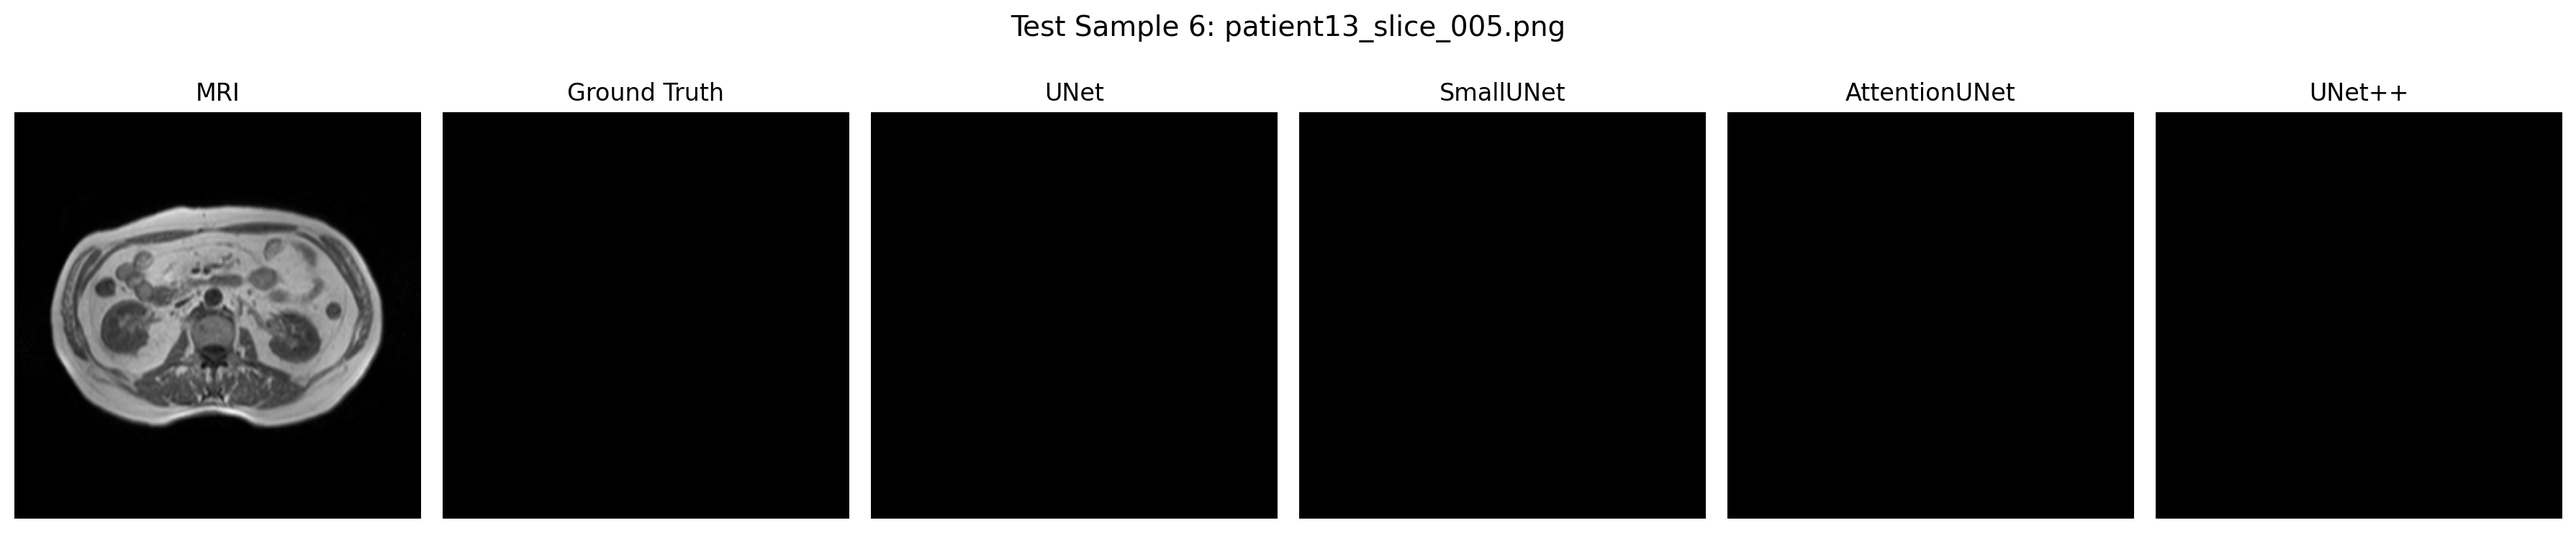
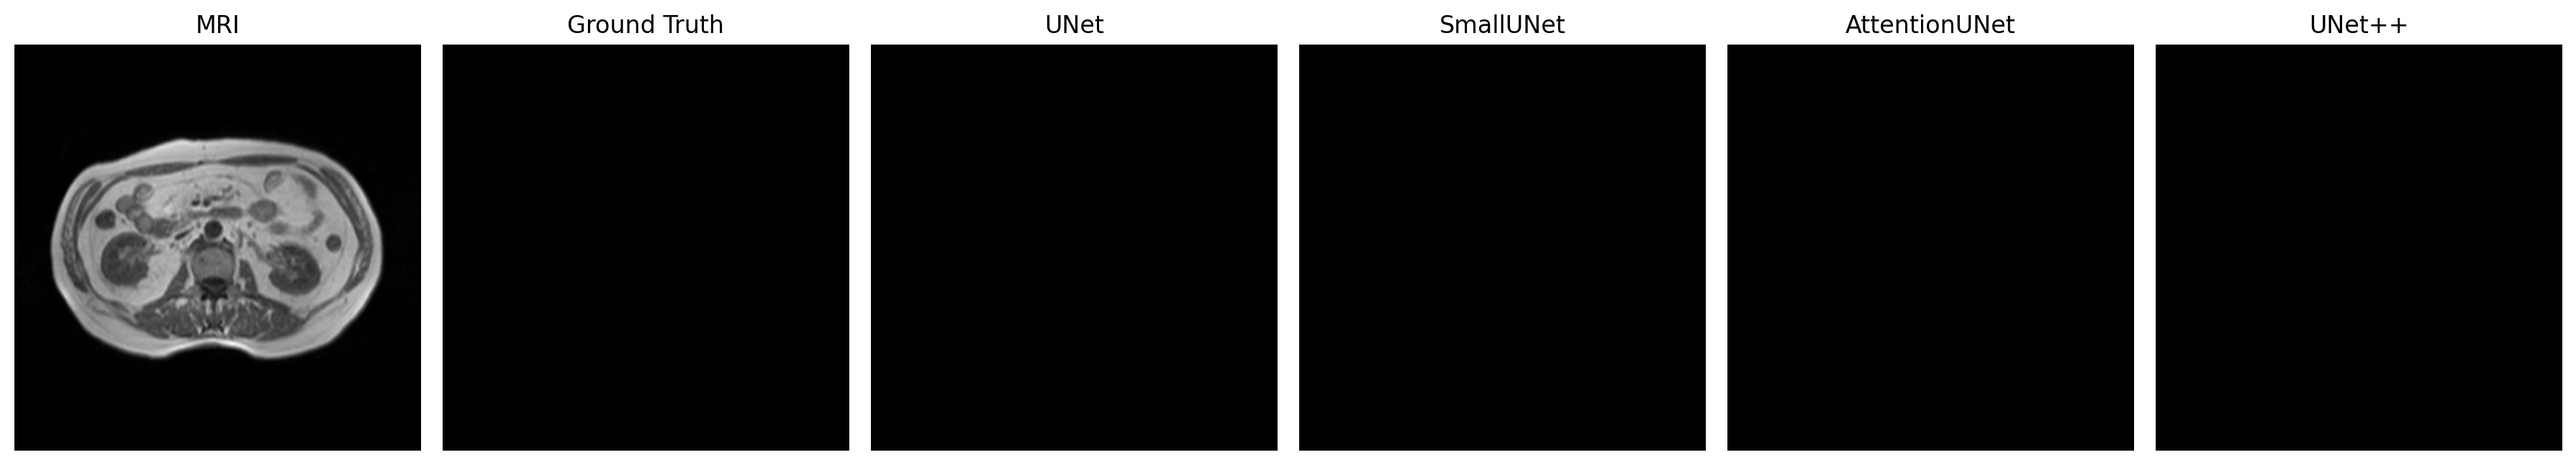
regenerated images

diff --git a/src/visualize_predictions.py b/src/visualize_predictions.py
@@ -128,7 +128,7 @@ for idx, img_name in enumerate(image_files):
     if total_plots == 1:
         axes = [axes]  
     
-    fig.suptitle(f"Test Sample {idx + 1}: {img_name}", fontsize=14)
+    # fig.suptitle(f"Test Sample {idx + 1}: {img_name}", fontsize=14)
 
     axes[0].imshow(image.squeeze().cpu(), cmap="gray")
     axes[0].set_title("MRI")
